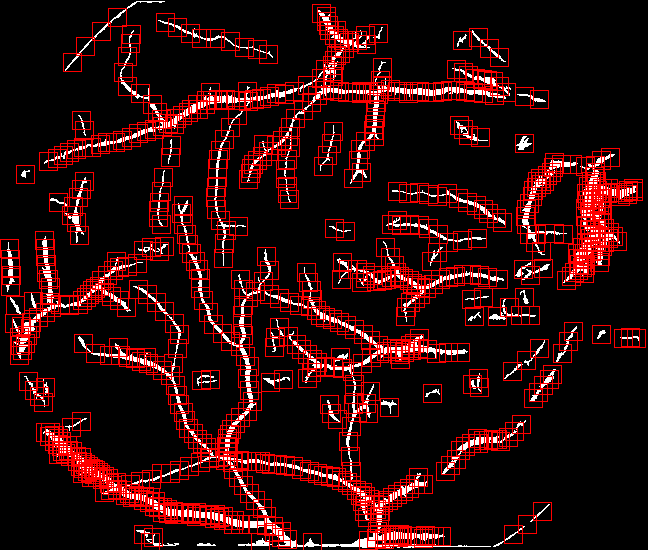
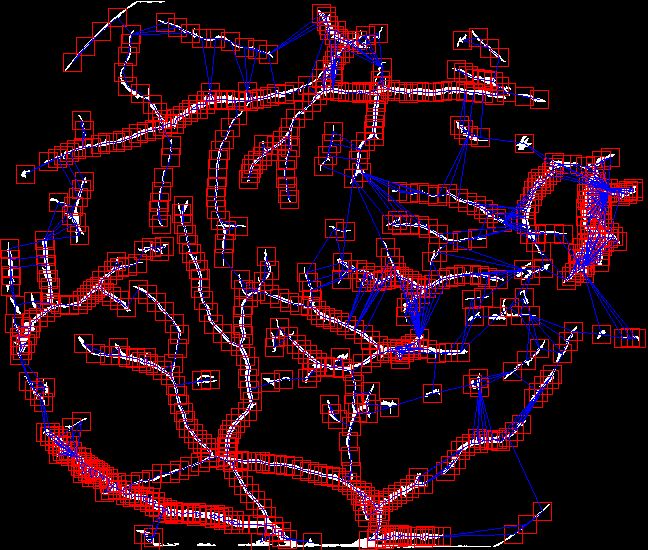
add bbox marking

diff --git a/code/new_mkgraph_method.py b/code/new_mkgraph_method.py
@@ -5,7 +5,6 @@ Created on Wed Mar 29 16:27:15 2023
 
 @author: jiu7
 """
-import os
 from skimage.segmentation import slic
 from skimage.segmentation import mark_boundaries
 from skimage.measure import regionprops, label
@@ -15,53 +14,13 @@ from skimage import draw
 from skimage.morphology import remove_small_objects
 import skimage.io as io
 import numpy as np
-import matplotlib.pyplot as plt
 import networkx as nx
 import torch
 from data_handeler import RetinalDataset
 import datetime
-from operator import attrgetter
 import networkx as nx
 
-hrf_0 = RetinalDataset('STARE').all_data[5]
-pred = hrf_0.pred
-mask = hrf_0.fov_mask.astype(bool)
-pred = pred * mask
-io.imsave('pred_test.png', pred)
-print(pred.max())
-certain_pred = pred >= 128
-print((255*certain_pred).max())
-uncertain_pred = np.clip(pred - 255 * certain_pred, 0, 255)
-io.imsave('certain_pred.png', img_as_ubyte(certain_pred))
-io.imsave('uncertain_pred.png', img_as_ubyte(uncertain_pred))
-
-certain_pred = remove_small_objects(certain_pred, min_size = 16)
-iso_labels = label(certain_pred)
-
-iso_regions = regionprops(iso_labels)
-
-small_iso_regions = list(filter(lambda x : max(x.bbox[2] - x.bbox[0], x.bbox[3] - x.bbox[1]) <= 17 ,iso_regions))
-large_iso_regions = filter(lambda x : min(x.bbox[2] - x.bbox[0], x.bbox[3] - x.bbox[1]) > 17  ,iso_regions)
-print('small isolate: ',len(small_iso_regions))
-certain_pred_only_large = np.zeros(shape = certain_pred.shape, dtype = bool)
-for region in large_iso_regions: certain_pred_only_large[region.slice] += region.image
-io.imsave('certain_pred_only_large.png', img_as_ubyte(certain_pred_only_large))
-
-slic_label = slic(certain_pred_only_large, 500, mask = certain_pred_only_large, enforce_connectivity = False, compactness = 300)
-boundaries = mark_boundaries(certain_pred, slic_label, color = (1,0,1))
-io.imsave('slic_only_in_certain_pred.png', img_as_ubyte(boundaries))   
-slic_regions = regionprops(slic_label)
-small_slic_regions = list(filter(lambda x : max(x.bbox[2] - x.bbox[0], x.bbox[3] - x.bbox[1]) <= 17 ,slic_regions))
-large_slic_regions = list(filter(lambda x : min(x.bbox[2] - x.bbox[0], x.bbox[3] - x.bbox[1]) > 17  ,slic_regions))
-print('small slic: ',len(small_slic_regions))
-print('large slic: ',len(large_slic_regions))
-for region in large_slic_regions:
-    h, w = region.bbox[2] - region.bbox[0], region.bbox[3] - region.bbox[1]
-    print(region.label, h, w)
-    io.imsave(f'{region.label}.png', img_as_ubyte(region.image))
-# In[]
-
-def get_bboxes_from_pred(pred, params = {'threshold': 'otsu', 'neg_iso_size': 32, 'n_slic_pieces': 800}, verbose = True):
+def get_bboxes_from_pred(pred, params = {'threshold': 'otsu', 'neg_iso_size': 32, 'n_slic_pieces': 800}):
     # larger neg_iso_size, less node, other params don't matter a lot
     assert pred.dtype == np.uint8
     if params['threshold'] == 'otsu':
@@ -114,33 +73,8 @@ def get_bboxes_from_pred(pred, params = {'threshold': 'otsu', 'neg_iso_size': 32
     # remove bboxes out of range    
     small_bboxes = list(filter(lambda x: (x[0]>=0) and (x[1]>=0) and(x[2]<=pred.shape[0]) and (x[3]<=pred.shape[1]), small_bboxes))
     small_bboxes = list(filter(lambda x: certain_pred[x[0]:x[2], x[1]:x[3]].sum() > 0, small_bboxes))
-    if verbose : print('number of bboxes: ', len(small_bboxes))
     return small_bboxes, certain_pred
 
-def bbox_vis(bboxes, background, save_dir):
-    for bbox in bboxes:
-        start = (bbox[0], bbox[1])
-        end = (bbox[2], bbox[3])
-        rr,cc = draw.rectangle_perimeter(start, end)
-        draw.set_color(background, (rr, cc), color = (255,0,0))
-    io.imsave(save_dir, img_as_ubyte(background))    
-
-datas = RetinalDataset('STARE').all_data
-for data in datas:
-    pred = data.pred
-    mask = data.fov_mask.astype(bool)
-    pred = pred * mask
-    bboxes, certain_pred = get_bboxes_from_pred(pred)
-    bbox_vis(bboxes, np.stack([certain_pred]*3, axis = -1), save_dir = f'{data.ID}_bbox_vis.png')
-    bbox_sizes = [(x[2] - x[0], x[3] - x[1]) for x in bboxes]
-
-
-
-params_for_stare = {'threshold': 'otsu', 'neg_iso_size': 16, 'n_slic_pieces': 500}
-params_for_drive = {'threshold': 'otsu', 'neg_iso_size': 16, 'n_slic_pieces': 500}
-
-
-# In[]
 
 def add_edges(bboxes, narrow = 100, n_links = 2):
     assert narrow < 256, 'param narrow is too large'
@@ -163,24 +97,62 @@ def add_edges(bboxes, narrow = 100, n_links = 2):
 
         edges = [(node, target) for target in targets] 
         graph.add_edges_from(edges)
+    
+    # connect isolated graph parts together
+    # for isolate graph parts, each node is linked to n_link nearest nodes in main part
+    N_components = nx.number_connected_components(graph)
+    components = nx.connected_components(graph)
+    components = sorted(components, key = len)
+    _, small_componets = components[-1], components[:N_components - 1]
+    all_nodes = set([i for i in range(len(graph.nodes))])
+    
+    for component in small_componets:
+        other_nodes = all_nodes - component
+        other_centers = [x for x in centers if x[0] in other_nodes]
+        for node in component:
+            node_x, node_y = graph.nodes[node]['center']
+            neighbors = list(filter(lambda x: (abs(node_x - x[1]) < narrow) and (abs(node_y - x[2]) < narrow), other_centers))
+            X = np.array([neighbor[1] for neighbor in neighbors], dtype = np.uint16)
+            Y = np.array([neighbor[2] for neighbor in neighbors], dtype = np.uint16)
+            DST = (X - node_x) ** 2 + (Y - node_y) ** 2
+            rank = np.argsort(DST)
+            targets = [neighbors[idx][0] for idx in rank[:min(1, len(neighbors))]]
+            edges = [(node, target) for target in targets] 
+            graph.add_edges_from(edges)  
         
     return graph    
 
-def vis_graph(graph, background):
+def vis_bbox_graph(bboxes, graph, background, save_dir):
+    for bbox in bboxes:
+        start = (bbox[0], bbox[1])
+        end = (bbox[2], bbox[3])
+        rr,cc = draw.rectangle_perimeter(start, end)
+        draw.set_color(background, (rr, cc), color = (255,0,0))
     for edge in graph.edges:
         start, end = edge
         r0, c0 = graph.nodes[start]['center']
         r1, c1 = graph.nodes[end]['center']
         rr,cc = draw.line(r0, c0, r1, c1)
-        draw.set_color(background, (rr, cc), color = (255,0,0))
-    io.imsave('graph_vis.png', img_as_ubyte(background))    
+        draw.set_color(background, (rr, cc), color = (0,0,255))
+    io.imsave(save_dir, img_as_ubyte(background))
 
-graph = add_edges(bboxes)        
-vis_graph(graph,  np.stack([certain_pred]*3, axis = -1))
+params_for_stare = {'threshold': 'otsu', 'neg_iso_size': 16, 'n_slic_pieces': 500}
+params_for_drive = {'threshold': 'otsu', 'neg_iso_size': 16, 'n_slic_pieces': 500}
+
+datas = RetinalDataset('STARE').all_data
+for data in datas:
+    pred = data.pred
+    mask = data.fov_mask.astype(bool)
+    pred = pred * mask
+    bboxes, certain_pred = get_bboxes_from_pred(pred)
+    graph = add_edges(bboxes)
+    vis_bbox_graph(bboxes, graph, np.stack([certain_pred]*3, axis = -1), save_dir = f'{data.ID}_bbox_vis.png')
+    print(graph)
+    print(nx.number_connected_components(graph), '\n')        
 
 
-print(graph)
-print(nx.number_connected_components(graph))        
+
+
 
 
 
